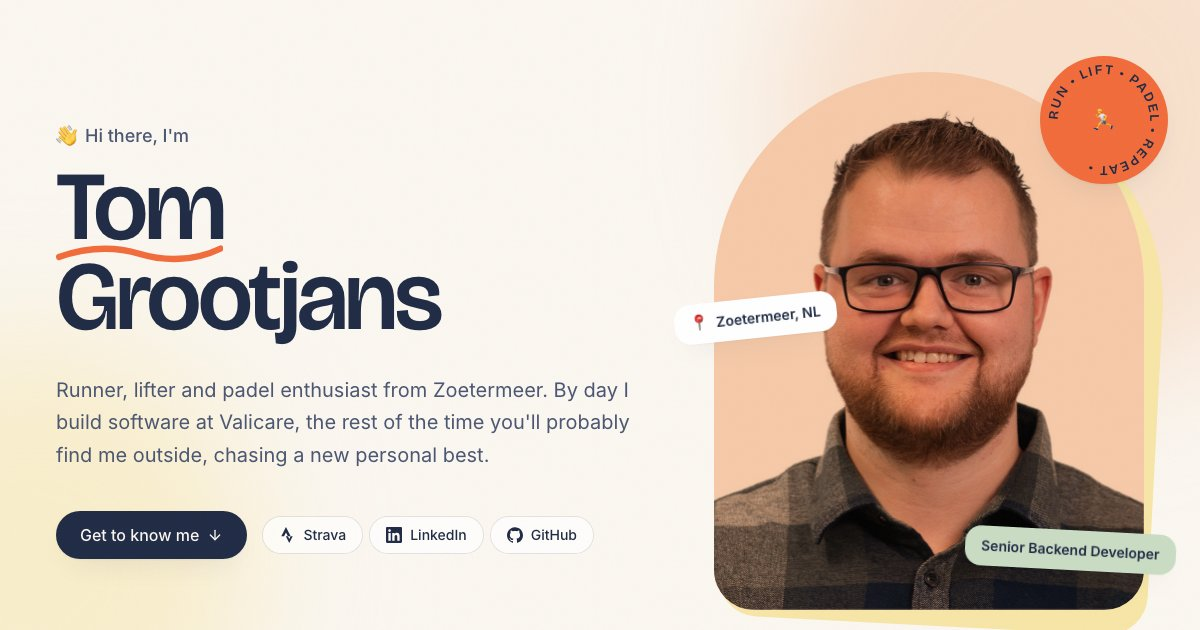
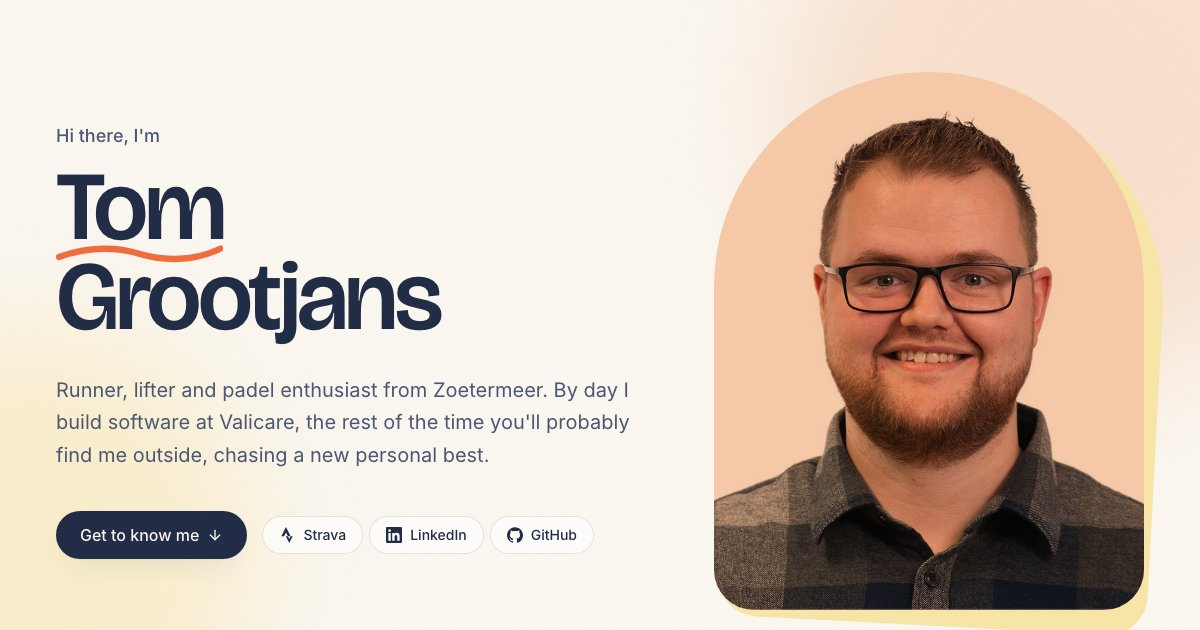
refactor: simplify hero decorations
- Remove the waving hand, rotating badge and location and role stickers.
- Remove the now unused wave and float animations.
- Regenerate the Open Graph image from the simplified hero.

diff --git a/src/components/sections/HeroSection.vue b/src/components/sections/HeroSection.vue
@@ -1,7 +1,6 @@
 <script setup lang="ts">
 import { ArrowDown } from 'lucide-vue-next';
 import portraitUrl from '@/assets/images/tom-grootjans.jpeg';
-import RotatingBadge from '@/components/ui/RotatingBadge.vue';
 import SocialLinks from '@/components/ui/SocialLinks.vue';
 import { heroSectionId, navigationItems } from '@/data/navigation';
 import { profile } from '@/data/profile';
@@ -10,7 +9,7 @@ const [firstNavigationItem] = navigationItems;
 </script>
 
 <template>
-    <section :id="heroSectionId" aria-labelledby="hero-title" class="relative overflow-x-clip pt-32 pb-16 sm:pt-40">
+    <section :id="heroSectionId" aria-labelledby="hero-title" class="relative overflow-x-clip pt-32 pb-12 sm:pt-40">
         <div
             class="pointer-events-none absolute -top-40 -right-32 size-[34rem] rounded-full bg-peach/50 blur-3xl"
             aria-hidden="true"
@@ -22,10 +21,7 @@ const [firstNavigationItem] = navigationItems;
 
         <div class="relative page-container grid items-center gap-16 lg:grid-cols-12 lg:gap-10">
             <div class="lg:col-span-7">
-                <p v-reveal class="inline-flex items-center gap-2 text-lg font-medium text-ink-soft">
-                    <span class="inline-block origin-[70%_70%] animate-wave" aria-hidden="true">👋</span>
-                    Hi there, I'm
-                </p>
+                <p v-reveal class="text-lg font-medium text-ink-soft">Hi there, I'm</p>
 
                 <h1 id="hero-title" v-reveal="80" class="mt-3 text-display font-semibold">
                     <span class="relative inline-block">
@@ -84,22 +80,6 @@ const [firstNavigationItem] = navigationItems;
                         class="size-full object-cover object-[50%_30%] mix-blend-multiply"
                     />
                 </div>
-
-                <RotatingBadge
-                    text="run • lift • padel • repeat • "
-                    class="absolute -top-4 -right-2 size-28 sm:-right-6 sm:size-32"
-                />
-
-                <span
-                    class="absolute top-[8%] -left-4 inline-flex -rotate-6 animate-float items-center gap-2 rounded-2xl bg-white px-4 py-2.5 text-sm font-semibold shadow-soft sm:top-[42%] sm:-left-10"
-                >
-                    <span aria-hidden="true">📍</span> {{ profile.city }}, NL
-                </span>
-                <span
-                    class="absolute -right-2 bottom-10 inline-flex rotate-3 animate-float items-center gap-2 rounded-2xl bg-sage px-4 py-2.5 text-sm font-semibold shadow-soft [animation-delay:-3s] sm:-right-8"
-                >
-                    {{ profile.role }}
-                </span>
             </div>
         </div>
     </section>

diff --git a/src/assets/css/main.css b/src/assets/css/main.css
@@ -30,40 +30,7 @@
     --ease-bounce: cubic-bezier(0.34, 1.56, 0.64, 1);
     --ease-gentle: cubic-bezier(0.2, 0.7, 0.2, 1);
 
-    --animate-wave: wave 1.8s var(--ease-gentle) 0.8s 1;
-    --animate-float: float 6s ease-in-out infinite;
     --animate-draw: draw 1.2s var(--ease-gentle) 0.4s both;
-
-    @keyframes wave {
-        0%,
-        60%,
-        100% {
-            rotate: 0deg;
-        }
-        10%,
-        30% {
-            rotate: 14deg;
-        }
-        20% {
-            rotate: -8deg;
-        }
-        40% {
-            rotate: -4deg;
-        }
-        50% {
-            rotate: 10deg;
-        }
-    }
-
-    @keyframes float {
-        0%,
-        100% {
-            translate: 0 0;
-        }
-        50% {
-            translate: 0 -6px;
-        }
-    }
 
     @keyframes draw {
         from {
